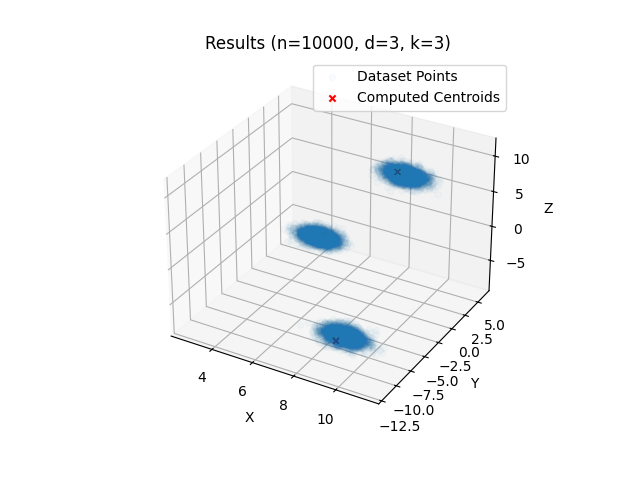
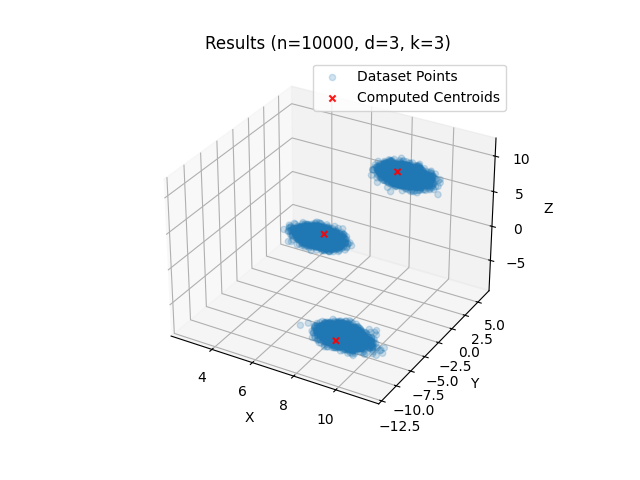
Fixed 3d plot points ordering

diff --git a/scripts/view_centroids.py b/scripts/view_centroids.py
@@ -6,9 +6,9 @@ import numpy as np
 from sklearn.metrics import silhouette_score, pairwise_distances_argmin_min
 
 # Parameters definition
-n = 50000 # Number of data points
+n = 1000 # Number of data points
 d = 3    # Number of dimensions
-k = 5   # Number of clusters
+k = 3   # Number of clusters
 
 # Function to read points from a file and return them as a list of tuples
 def read_points_from_file(filename, num_coords, skip_first=False):
@@ -71,16 +71,18 @@ if d == 2:
 elif d == 3:
     # Create a scatterplot for the dataset points
     fig = plt.figure()
-    ax = fig.add_subplot(111, projection='3d')
+    # ax = fig.add_subplot(111, projection='3d')
+    ax = plt.axes(projection='3d', computed_zorder=False)
+
     dataset_x, dataset_y, dataset_z = zip(*dataset_points)
-    ax.scatter(dataset_x, dataset_y, dataset_z, label="Dataset Points", alpha=0.025)
+    ax.scatter(dataset_x, dataset_y, dataset_z, label="Dataset Points", alpha=0.2, zorder=1)
     ax.set_xlabel("X")
     ax.set_ylabel("Y")
     ax.set_zlabel("Z")
 
     # Create a scatterplot for the computed centroids from the output file (in red)
     centroid_x, centroid_y, centroid_z = zip(*computed_centroids)
-    ax.scatter(centroid_x, centroid_y, centroid_z, label="Computed Centroids", color="red", marker="x")
+    ax.scatter(centroid_x, centroid_y, centroid_z, label="Computed Centroids", color="red", marker="x", alpha=0.9, zorder=2)
 
     # Create a scatterplot for the centroids computed with KMeans (in black)
     # centroid_x, centroid_y, centroid_z = zip(*centroids)
